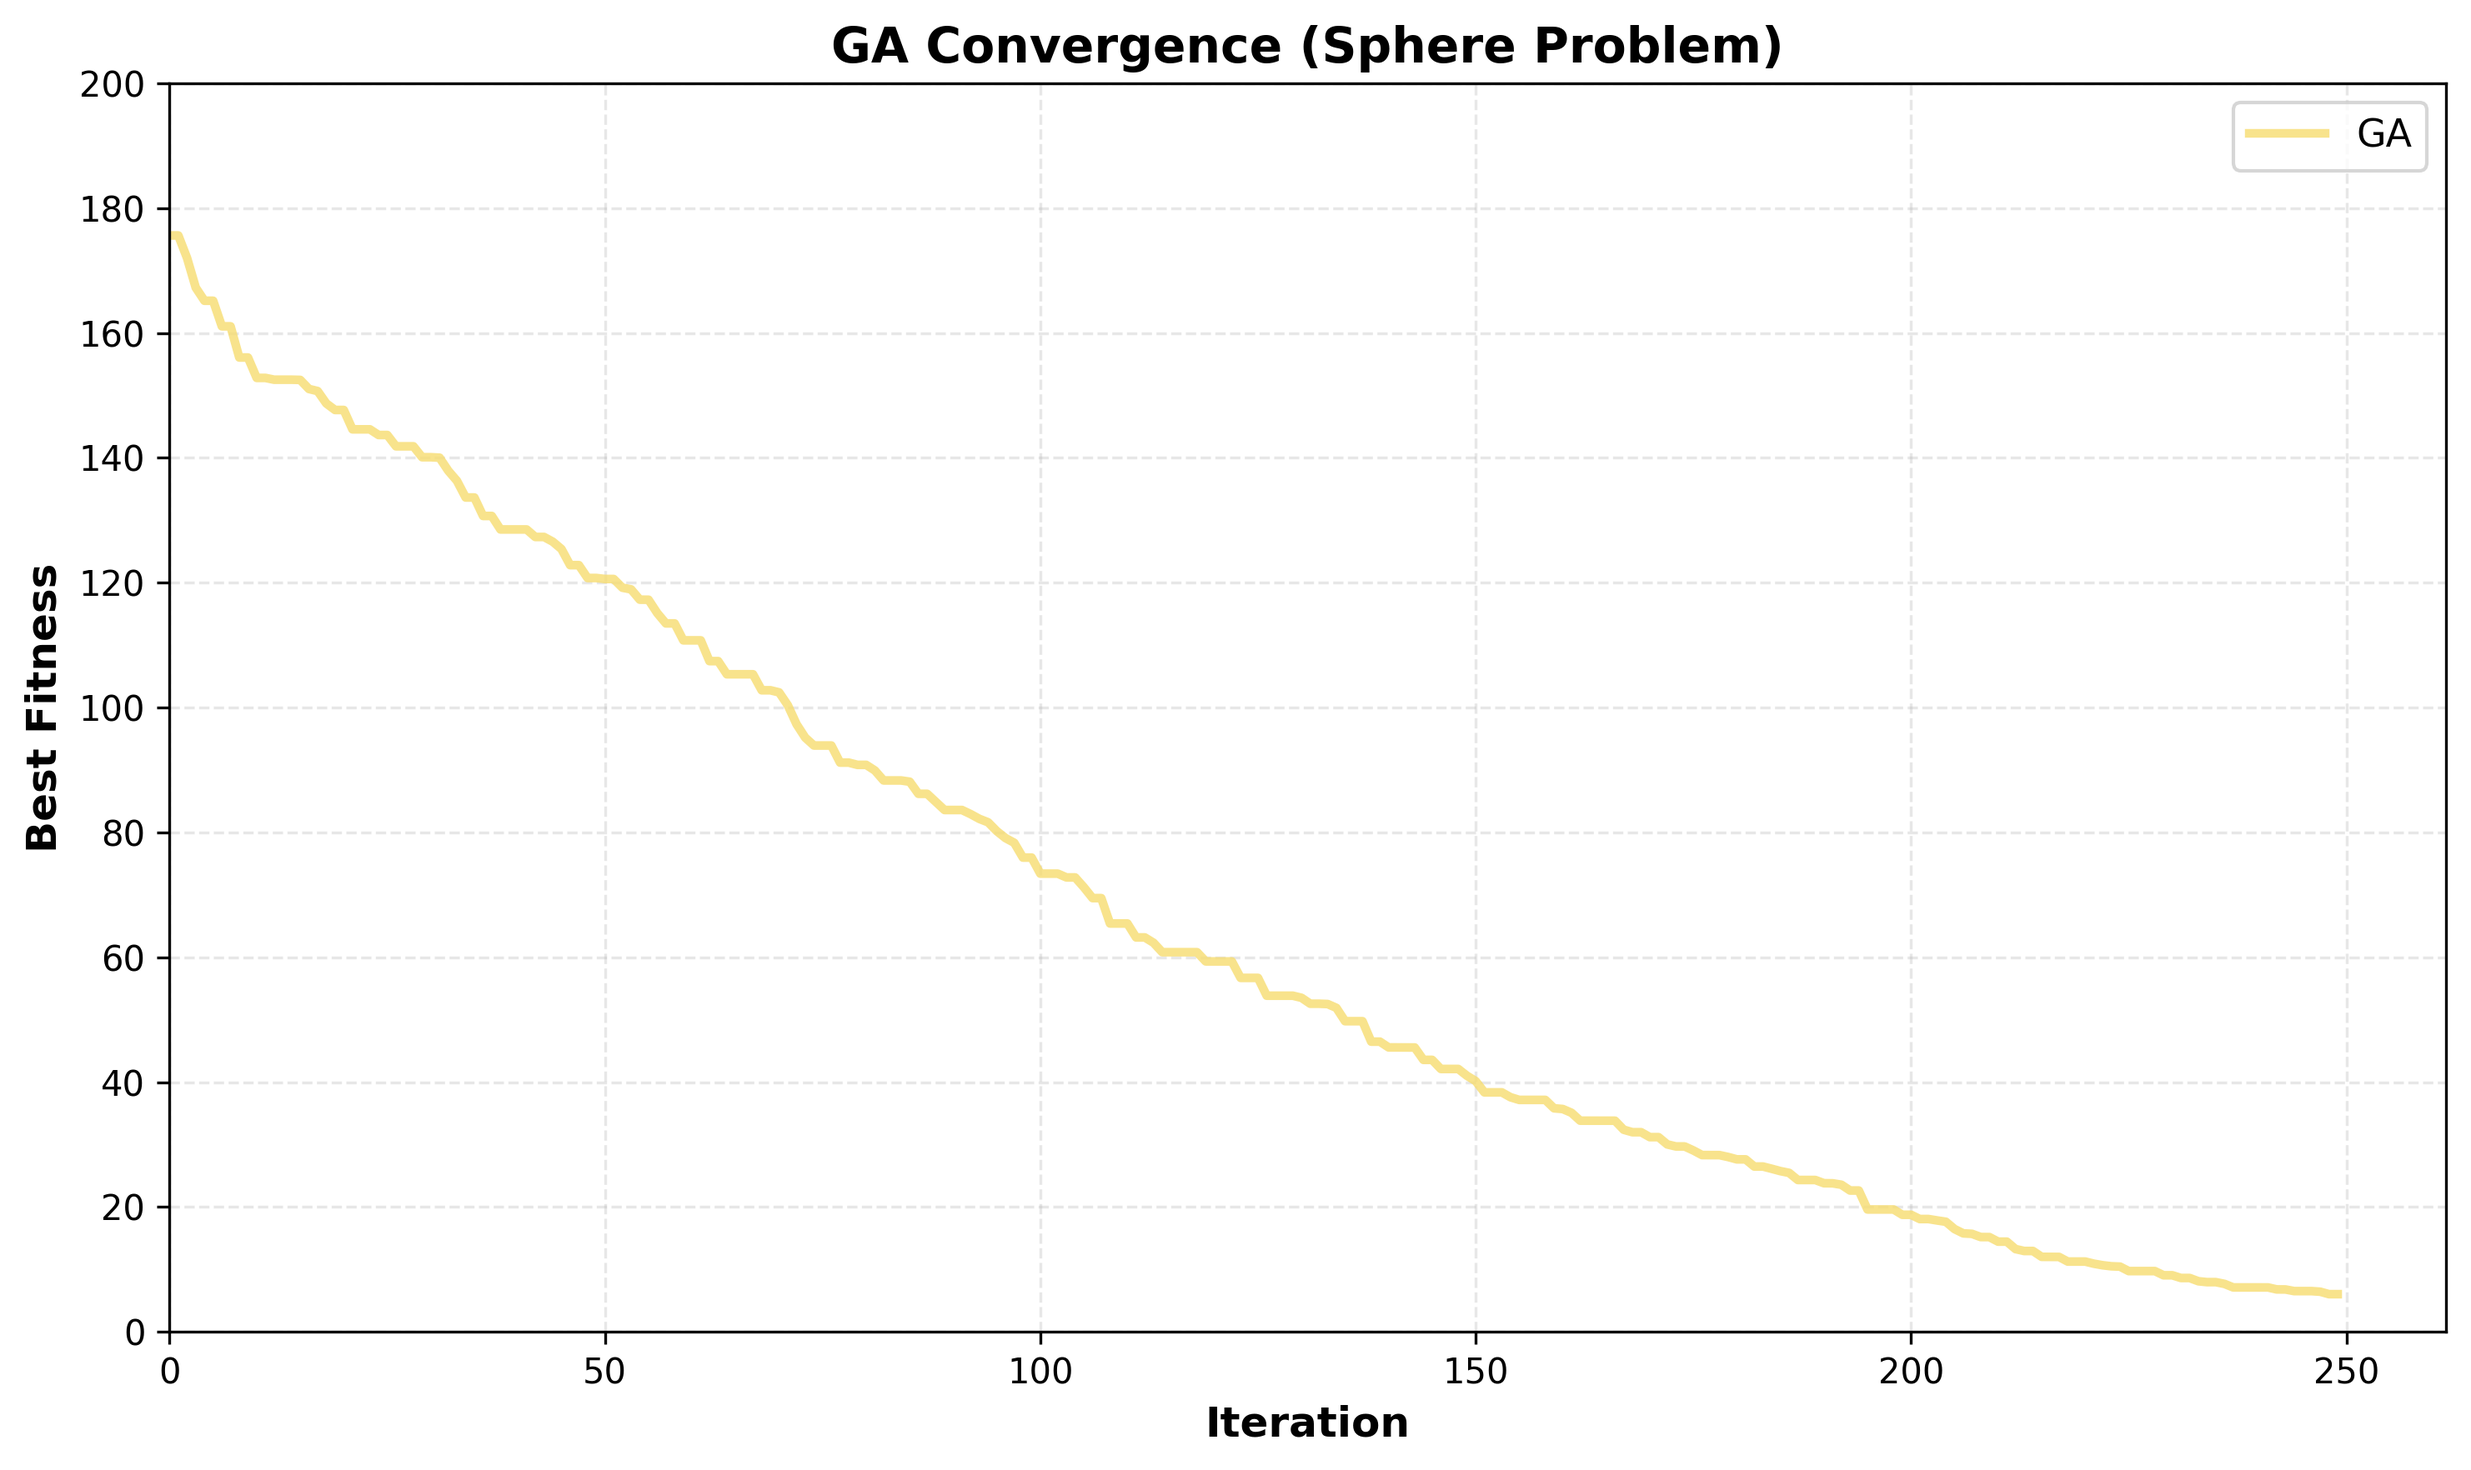
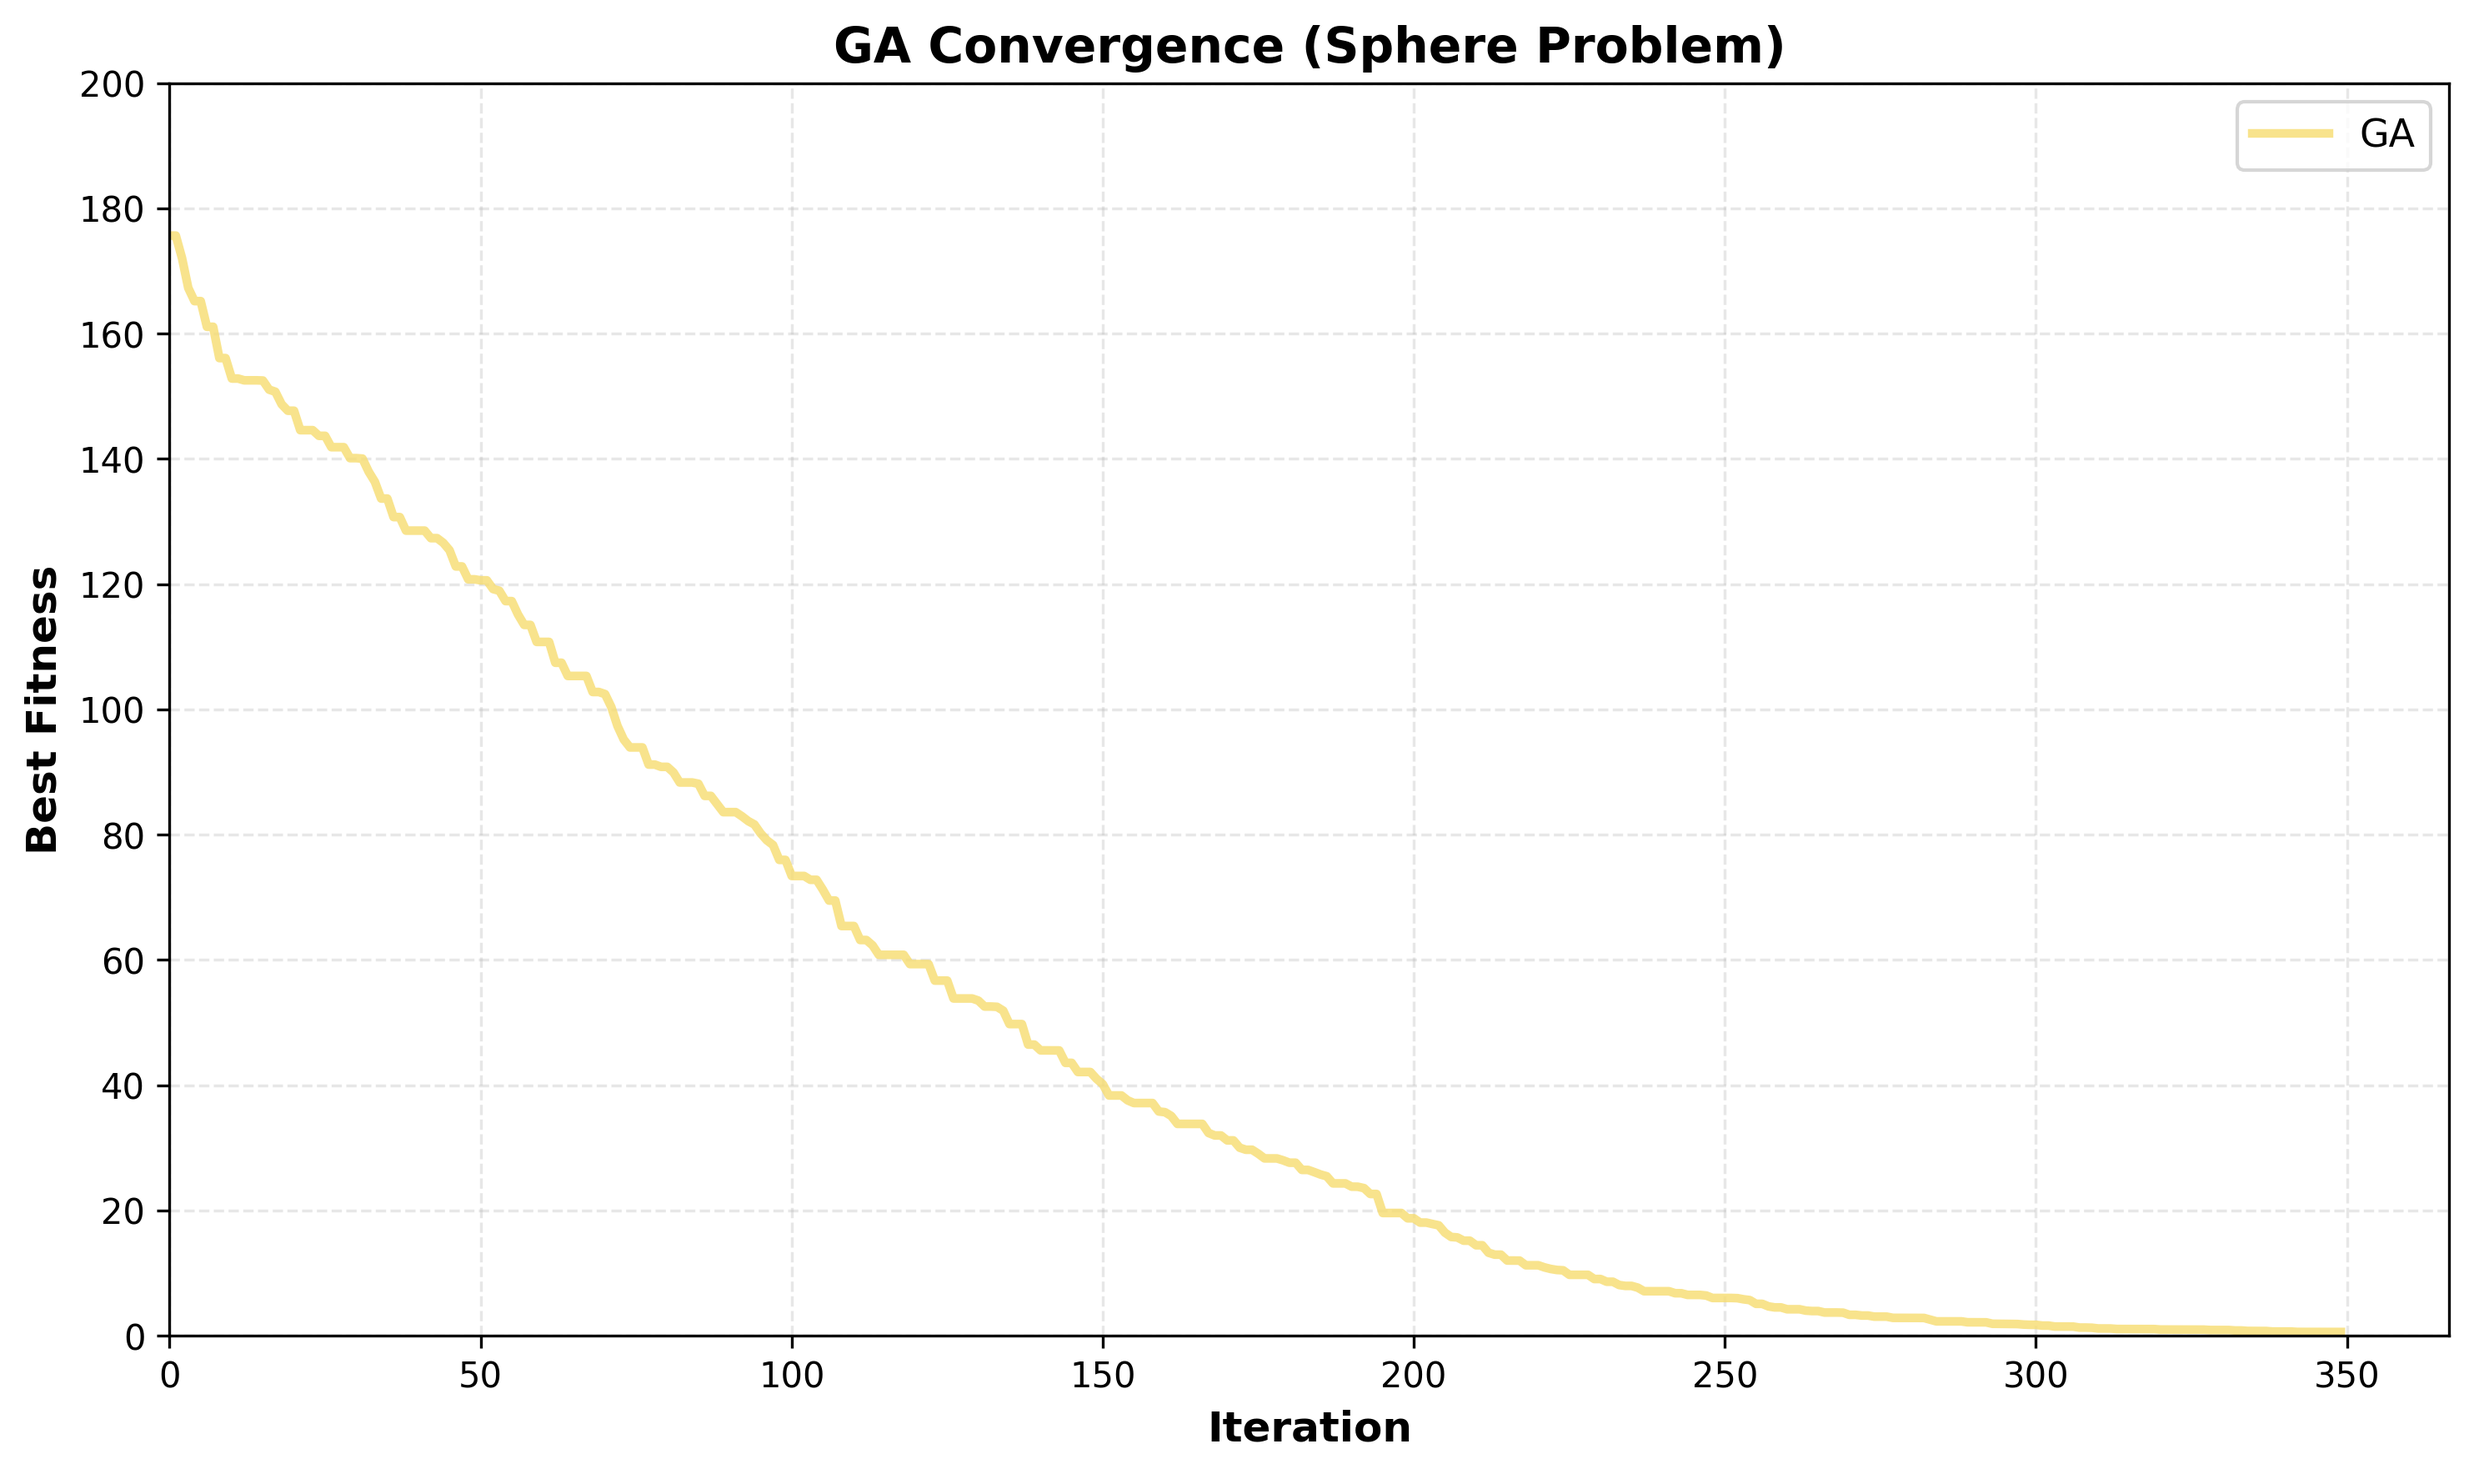
[Fix] Change padding of bar chart

diff --git a/src/visualization/visualize_experiments.py b/src/visualization/visualize_experiments.py
@@ -311,7 +311,7 @@ def plot_runtime_bar(results_dict, problem_type='sphere', save_path=None):
         lower_values = [v for v in runtimes if v < upper_min]
         
         if len(upper_values) > 0 and len(lower_values) > 0:
-            upper_max = max(upper_values) * 1.15
+            upper_max = max(upper_values) * 1.25
             lower_max = max(lower_values) * 1.2
             
             # Top subplot: show upper portion (from upper_min to value) for high values
@@ -403,11 +403,16 @@ def plot_runtime_bar(results_dict, problem_type='sphere', save_path=None):
         ax.set_xticks(x)
         ax.set_xticklabels(algorithms)
         
-        # Set adaptive y-axis ticks
+        # Set adaptive y-axis ticks with padding
         tick_step = get_nice_tick_step(data_range, max_ticks=10)
         y_min = np.floor(min_runtime / tick_step) * tick_step
         y_max = np.ceil(max_runtime / tick_step) * tick_step
-        y_ticks = np.arange(y_min, y_max + tick_step, tick_step)
+        # Add padding: 5% at bottom, 15% at top
+        padding_bottom = (y_max - y_min) * 0.05
+        padding_top = (y_max - y_min) * 0.15
+        y_min = max(0, y_min - padding_bottom)
+        y_max = y_max + padding_top
+        y_ticks = np.arange(np.floor(y_min / tick_step) * tick_step, y_max + tick_step, tick_step)
         ax.set_yticks(y_ticks)
         ax.set_ylim(y_min, y_max)
         

diff --git a/src/experiment/run_knapsack.py b/src/experiment/run_knapsack.py
@@ -16,7 +16,7 @@ from src.algorithms.traditional_algorithms.SA import SimulatedAnnealingKnapsack
 from src.problem.discrete.knapsack import WEIGHTS, VALUES, MAX_WEIGHT, N_ITEMS
 
 N_RUNS = 1
-POP_SIZES = [10]
+POP_SIZES = [50]
 MAX_ITERATIONS = 200
 SEED = 42
 VERBOSE = False

diff --git a/src/experiment/run_sphere.py b/src/experiment/run_sphere.py
@@ -18,7 +18,7 @@ from src.problem.continuous.sphere import sphere
 N_RUNS = 1
 DIMS = [30]
 POP_SIZES = [50]
-MAX_ITERATIONS = 250
+MAX_ITERATIONS = 350
 LOWER_BOUND = -5.12
 UPPER_BOUND = 5.12
 SEED = 42
